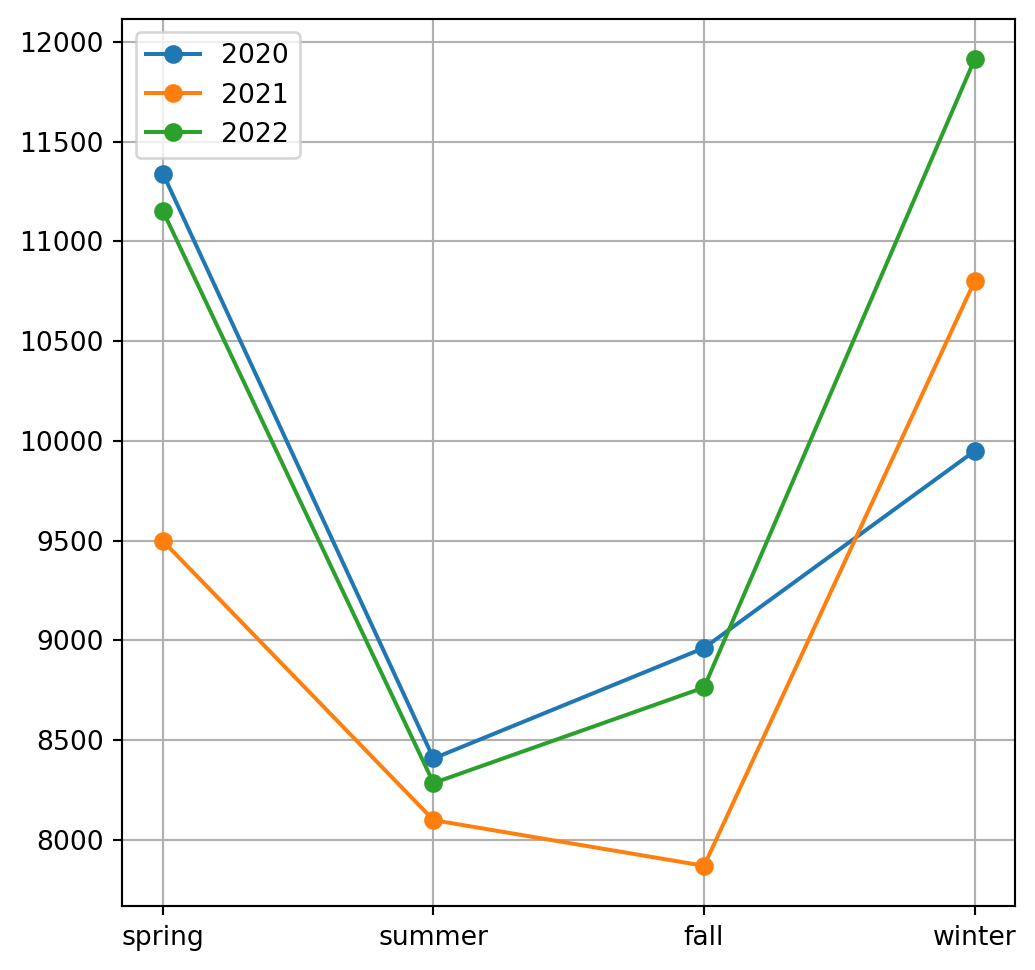
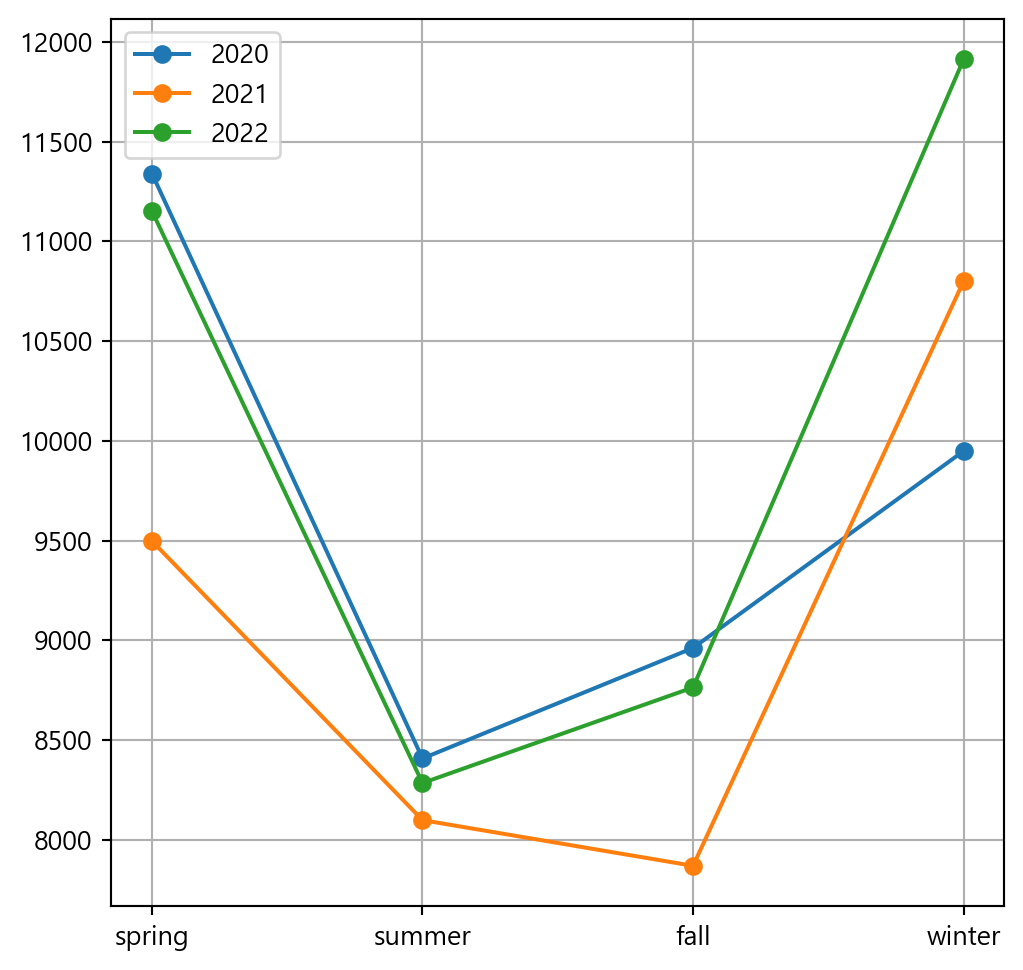
update

diff --git a/fire_presentation.html b/fire_presentation.html
@@ -110,12 +110,12 @@ pre > code.sourceCode > span > a:first-child::before { text-decoration: underlin
 <h2 class="anchored" data-anchor-id="계절별-화재발생-빈도">계절별 화재발생 빈도</h2>
 <section id="section" class="level3">
 <h3 class="anchored" data-anchor-id="section">&lt;데이터 설명&gt;</h3>
-<div id="efc306d0" class="cell" data-execution_count="1">
+<div id="f1ef26d4" class="cell" data-execution_count="1">
 <div class="sourceCode cell-code" id="cb1"><pre class="sourceCode python code-with-copy"><code class="sourceCode python"><span id="cb1-1"><a href="#cb1-1" aria-hidden="true" tabindex="-1"></a><span class="im">import</span> pandas <span class="im">as</span> pd</span>
 <span id="cb1-2"><a href="#cb1-2" aria-hidden="true" tabindex="-1"></a><span class="im">import</span> numpy <span class="im">as</span> np</span>
 <span id="cb1-3"><a href="#cb1-3" aria-hidden="true" tabindex="-1"></a>df <span class="op">=</span> pd.read_csv(<span class="st">"data/fire.csv"</span>)</span>
 <span id="cb1-4"><a href="#cb1-4" aria-hidden="true" tabindex="-1"></a>df.head()</span></code><button title="Copy to Clipboard" class="code-copy-button"><i class="bi"></i></button></pre></div>
-<div class="cell-output cell-output-display" data-execution_count="1">
+<div class="cell-output cell-output-display" data-execution_count="64">
 <div>
 
 
@@ -281,7 +281,7 @@ pre > code.sourceCode > span > a:first-child::before { text-decoration: underlin
 <ul>
 <li>연도별로 분리</li>
 </ul>
-<div id="026dc875" class="cell" data-execution_count="2">
+<div id="d02eedc6" class="cell" data-execution_count="2">
 <div class="sourceCode cell-code" id="cb2"><pre class="sourceCode python code-with-copy"><code class="sourceCode python"><span id="cb2-1"><a href="#cb2-1" aria-hidden="true" tabindex="-1"></a>data_2020 <span class="op">=</span> df[[<span class="st">'항목'</span>] <span class="op">+</span> df.<span class="bu">filter</span>(like<span class="op">=</span><span class="st">'2020'</span>).columns.tolist()]</span>
 <span id="cb2-2"><a href="#cb2-2" aria-hidden="true" tabindex="-1"></a></span>
 <span id="cb2-3"><a href="#cb2-3" aria-hidden="true" tabindex="-1"></a>data_2021 <span class="op">=</span> df[[<span class="st">'항목'</span>] <span class="op">+</span> df.<span class="bu">filter</span>(like<span class="op">=</span><span class="st">'2021'</span>).columns.tolist()]</span>
@@ -289,7 +289,7 @@ pre > code.sourceCode > span > a:first-child::before { text-decoration: underlin
 <span id="cb2-5"><a href="#cb2-5" aria-hidden="true" tabindex="-1"></a>data_2022 <span class="op">=</span> df[[<span class="st">'항목'</span>] <span class="op">+</span> df.<span class="bu">filter</span>(like<span class="op">=</span><span class="st">'2022'</span>).columns.tolist()]</span>
 <span id="cb2-6"><a href="#cb2-6" aria-hidden="true" tabindex="-1"></a></span>
 <span id="cb2-7"><a href="#cb2-7" aria-hidden="true" tabindex="-1"></a>data_2022.head()</span></code><button title="Copy to Clipboard" class="code-copy-button"><i class="bi"></i></button></pre></div>
-<div class="cell-output cell-output-display" data-execution_count="2">
+<div class="cell-output cell-output-display" data-execution_count="65">
 <div>
 
 
@@ -409,10 +409,10 @@ pre > code.sourceCode > span > a:first-child::before { text-decoration: underlin
 <ul>
 <li>2022년의 제품결함 열 삭제</li>
 </ul>
-<div id="4a789a41" class="cell" data-execution_count="3">
+<div id="bc5a75f9" class="cell" data-execution_count="3">
 <div class="sourceCode cell-code" id="cb3"><pre class="sourceCode python code-with-copy"><code class="sourceCode python"><span id="cb3-1"><a href="#cb3-1" aria-hidden="true" tabindex="-1"></a>data_2022 <span class="op">=</span> data_2022.drop(columns <span class="op">=</span> <span class="st">"2022.11"</span>)</span>
 <span id="cb3-2"><a href="#cb3-2" aria-hidden="true" tabindex="-1"></a>data_2022.head()</span></code><button title="Copy to Clipboard" class="code-copy-button"><i class="bi"></i></button></pre></div>
-<div class="cell-output cell-output-display" data-execution_count="3">
+<div class="cell-output cell-output-display" data-execution_count="66">
 <div>
 
 
@@ -526,7 +526,7 @@ pre > code.sourceCode > span > a:first-child::before { text-decoration: underlin
 <ul>
 <li>0번째 행을 column으로 지정</li>
 </ul>
-<div id="2d981ee9" class="cell" data-execution_count="4">
+<div id="d0d7a36d" class="cell" data-execution_count="4">
 <div class="sourceCode cell-code" id="cb4"><pre class="sourceCode python code-with-copy"><code class="sourceCode python"><span id="cb4-1"><a href="#cb4-1" aria-hidden="true" tabindex="-1"></a>data_2020.columns <span class="op">=</span> data_2020.iloc[<span class="dv">0</span>] </span>
 <span id="cb4-2"><a href="#cb4-2" aria-hidden="true" tabindex="-1"></a></span>
 <span id="cb4-3"><a href="#cb4-3" aria-hidden="true" tabindex="-1"></a>data_2021.columns <span class="op">=</span> data_2021.iloc[<span class="dv">0</span>] </span>
@@ -534,7 +534,7 @@ pre > code.sourceCode > span > a:first-child::before { text-decoration: underlin
 <span id="cb4-5"><a href="#cb4-5" aria-hidden="true" tabindex="-1"></a>data_2022.columns <span class="op">=</span> data_2022.iloc[<span class="dv">0</span>] </span>
 <span id="cb4-6"><a href="#cb4-6" aria-hidden="true" tabindex="-1"></a></span>
 <span id="cb4-7"><a href="#cb4-7" aria-hidden="true" tabindex="-1"></a>data_2022.head()</span></code><button title="Copy to Clipboard" class="code-copy-button"><i class="bi"></i></button></pre></div>
-<div class="cell-output cell-output-display" data-execution_count="4">
+<div class="cell-output cell-output-display" data-execution_count="67">
 <div>
 
 
@@ -648,7 +648,7 @@ pre > code.sourceCode > span > a:first-child::before { text-decoration: underlin
 <ul>
 <li>0행, 1행 삭제 후 인덱스 초기화</li>
 </ul>
-<div id="184f3568" class="cell" data-execution_count="5">
+<div id="5d8e15e8" class="cell" data-execution_count="5">
 <div class="sourceCode cell-code" id="cb5"><pre class="sourceCode python code-with-copy"><code class="sourceCode python"><span id="cb5-1"><a href="#cb5-1" aria-hidden="true" tabindex="-1"></a>data_2020 <span class="op">=</span> data_2020[<span class="dv">2</span>:]</span>
 <span id="cb5-2"><a href="#cb5-2" aria-hidden="true" tabindex="-1"></a>data_2020 <span class="op">=</span> data_2020.reset_index(drop<span class="op">=</span><span class="va">True</span>)</span>
 <span id="cb5-3"><a href="#cb5-3" aria-hidden="true" tabindex="-1"></a></span>
@@ -659,7 +659,7 @@ pre > code.sourceCode > span > a:first-child::before { text-decoration: underlin
 <span id="cb5-8"><a href="#cb5-8" aria-hidden="true" tabindex="-1"></a>data_2022 <span class="op">=</span> data_2022.reset_index(drop<span class="op">=</span><span class="va">True</span>)</span>
 <span id="cb5-9"><a href="#cb5-9" aria-hidden="true" tabindex="-1"></a></span>
 <span id="cb5-10"><a href="#cb5-10" aria-hidden="true" tabindex="-1"></a>data_2022.head()</span></code><button title="Copy to Clipboard" class="code-copy-button"><i class="bi"></i></button></pre></div>
-<div class="cell-output cell-output-display" data-execution_count="5">
+<div class="cell-output cell-output-display" data-execution_count="68">
 <div>
 
 
@@ -773,7 +773,7 @@ pre > code.sourceCode > span > a:first-child::before { text-decoration: underlin
 <ul>
 <li>데이터타입이 object로 되어 있음</li>
 </ul>
-<div id="0df72b63" class="cell" data-execution_count="6">
+<div id="4563f157" class="cell" data-execution_count="6">
 <div class="sourceCode cell-code" id="cb6"><pre class="sourceCode python code-with-copy"><code class="sourceCode python"><span id="cb6-1"><a href="#cb6-1" aria-hidden="true" tabindex="-1"></a>data_2022.info()</span></code><button title="Copy to Clipboard" class="code-copy-button"><i class="bi"></i></button></pre></div>
 <div class="cell-output cell-output-stdout">
 <pre><code>&lt;class 'pandas.core.frame.DataFrame'&gt;
@@ -802,7 +802,7 @@ memory usage: 1.3+ KB</code></pre>
 <ul>
 <li>for문을 사용해 데이터타입을 int로 변경</li>
 </ul>
-<div id="a6d308c2" class="cell" data-execution_count="7">
+<div id="64a3042d" class="cell" data-execution_count="7">
 <div class="sourceCode cell-code" id="cb8"><pre class="sourceCode python code-with-copy"><code class="sourceCode python"><span id="cb8-1"><a href="#cb8-1" aria-hidden="true" tabindex="-1"></a>columns_to_convert <span class="op">=</span> [<span class="st">'계'</span>, <span class="st">'전기적요인'</span>, <span class="st">'기계적요인'</span>,</span>
 <span id="cb8-2"><a href="#cb8-2" aria-hidden="true" tabindex="-1"></a>                <span class="st">'화학적요인'</span>, <span class="st">'가스누출'</span>, <span class="st">'교통사고'</span>, <span class="st">'부주의'</span>, <span class="st">'기타'</span>,</span>
 <span id="cb8-3"><a href="#cb8-3" aria-hidden="true" tabindex="-1"></a>                <span class="st">'자연적요인'</span>, <span class="st">'방화'</span>, <span class="st">'방화의심'</span>, <span class="st">'미상'</span>]</span>
@@ -847,7 +847,7 @@ memory usage: 1.3+ KB</code></pre>
 <p>봄: 3월, 4월, 5월<br> 여름: 6월, 7월, 8월<br> 가을: 9월, 10월, 11월<br> 겨울: 12월, 1월, 2월</p>
 </blockquote></li>
 </ul>
-<div id="cf588c32" class="cell" data-execution_count="8">
+<div id="30406ddd" class="cell" data-execution_count="8">
 <div class="sourceCode cell-code" id="cb10"><pre class="sourceCode python code-with-copy"><code class="sourceCode python"><span id="cb10-1"><a href="#cb10-1" aria-hidden="true" tabindex="-1"></a>data_2020[<span class="st">"계절"</span>] <span class="op">=</span> np.where(data_2020[<span class="st">"항목"</span>]<span class="op">\</span></span>
 <span id="cb10-2"><a href="#cb10-2" aria-hidden="true" tabindex="-1"></a>                    .isin([<span class="st">"3월"</span>, <span class="st">"4월"</span>, <span class="st">"5월"</span>]),<span class="st">"spring"</span>,</span>
 <span id="cb10-3"><a href="#cb10-3" aria-hidden="true" tabindex="-1"></a>                    np.where(data_2020[<span class="st">"항목"</span>]<span class="op">\</span></span>
@@ -870,7 +870,7 @@ memory usage: 1.3+ KB</code></pre>
 <span id="cb10-20"><a href="#cb10-20" aria-hidden="true" tabindex="-1"></a>                    .isin([<span class="st">"9월"</span>, <span class="st">"10월"</span>, <span class="st">"11월"</span>]),<span class="st">"fall"</span>,<span class="st">"winter"</span>)))</span>
 <span id="cb10-21"><a href="#cb10-21" aria-hidden="true" tabindex="-1"></a></span>
 <span id="cb10-22"><a href="#cb10-22" aria-hidden="true" tabindex="-1"></a>data_2022.head()</span></code><button title="Copy to Clipboard" class="code-copy-button"><i class="bi"></i></button></pre></div>
-<div class="cell-output cell-output-display" data-execution_count="8">
+<div class="cell-output cell-output-display" data-execution_count="71">
 <div>
 
 
@@ -990,7 +990,7 @@ memory usage: 1.3+ KB</code></pre>
 <ul>
 <li>계절별 화재 횟수 데이터프레임 생성</li>
 </ul>
-<div id="981921db" class="cell" data-execution_count="9">
+<div id="6fe57a0a" class="cell" data-execution_count="9">
 <div class="sourceCode cell-code" id="cb11"><pre class="sourceCode python code-with-copy"><code class="sourceCode python"><span id="cb11-1"><a href="#cb11-1" aria-hidden="true" tabindex="-1"></a>season_20 <span class="op">=</span> data_2020.groupby(<span class="st">'계절'</span>).agg(sum2020<span class="op">=</span>(<span class="st">'계'</span>,<span class="st">'sum'</span>))</span>
 <span id="cb11-2"><a href="#cb11-2" aria-hidden="true" tabindex="-1"></a></span>
 <span id="cb11-3"><a href="#cb11-3" aria-hidden="true" tabindex="-1"></a>season_21 <span class="op">=</span> data_2021.groupby(<span class="st">'계절'</span>).agg(sum2021<span class="op">=</span>(<span class="st">'계'</span>,<span class="st">'sum'</span>))</span>
@@ -998,7 +998,7 @@ memory usage: 1.3+ KB</code></pre>
 <span id="cb11-5"><a href="#cb11-5" aria-hidden="true" tabindex="-1"></a>season_22 <span class="op">=</span> data_2022.groupby(<span class="st">'계절'</span>).agg(sum2022<span class="op">=</span>(<span class="st">'계'</span>,<span class="st">'sum'</span>))</span>
 <span id="cb11-6"><a href="#cb11-6" aria-hidden="true" tabindex="-1"></a></span>
 <span id="cb11-7"><a href="#cb11-7" aria-hidden="true" tabindex="-1"></a>season_22</span></code><button title="Copy to Clipboard" class="code-copy-button"><i class="bi"></i></button></pre></div>
-<div class="cell-output cell-output-display" data-execution_count="9">
+<div class="cell-output cell-output-display" data-execution_count="72">
 <div>
 
 
@@ -1040,10 +1040,10 @@ memory usage: 1.3+ KB</code></pre>
 <ul>
 <li>각 데이터를 열로 병합</li>
 </ul>
-<div id="952eb34d" class="cell" data-execution_count="10">
+<div id="7b905ccf" class="cell" data-execution_count="10">
 <div class="sourceCode cell-code" id="cb12"><pre class="sourceCode python code-with-copy"><code class="sourceCode python"><span id="cb12-1"><a href="#cb12-1" aria-hidden="true" tabindex="-1"></a>season <span class="op">=</span> pd.concat([season_20,season_21,season_22], axis<span class="op">=</span><span class="dv">1</span>)</span>
 <span id="cb12-2"><a href="#cb12-2" aria-hidden="true" tabindex="-1"></a>season</span></code><button title="Copy to Clipboard" class="code-copy-button"><i class="bi"></i></button></pre></div>
-<div class="cell-output cell-output-display" data-execution_count="10">
+<div class="cell-output cell-output-display" data-execution_count="73">
 <div>
 
 
@@ -1097,10 +1097,10 @@ memory usage: 1.3+ KB</code></pre>
 <ul>
 <li>계절 순서를 ‘봄’, ‘여름’, ‘가을’, ’겨울’로 정렬</li>
 </ul>
-<div id="b7bb3c0e" class="cell" data-execution_count="11">
+<div id="592e6087" class="cell" data-execution_count="11">
 <div class="sourceCode cell-code" id="cb13"><pre class="sourceCode python code-with-copy"><code class="sourceCode python"><span id="cb13-1"><a href="#cb13-1" aria-hidden="true" tabindex="-1"></a>season <span class="op">=</span> season.loc[[<span class="st">'spring'</span>, <span class="st">'summer'</span>, <span class="st">'fall'</span>, <span class="st">'winter'</span>]]</span>
 <span id="cb13-2"><a href="#cb13-2" aria-hidden="true" tabindex="-1"></a>season</span></code><button title="Copy to Clipboard" class="code-copy-button"><i class="bi"></i></button></pre></div>
-<div class="cell-output cell-output-display" data-execution_count="11">
+<div class="cell-output cell-output-display" data-execution_count="74">
 <div>
 
 
@@ -1157,7 +1157,7 @@ memory usage: 1.3+ KB</code></pre>
 <ul>
 <li>계절별 화재발생 선 그래프 생성</li>
 </ul>
-<div id="52248387" class="cell" data-execution_count="12">
+<div id="a5883644" class="cell" data-execution_count="12">
 <div class="sourceCode cell-code" id="cb14"><pre class="sourceCode python code-with-copy"><code class="sourceCode python"><span id="cb14-1"><a href="#cb14-1" aria-hidden="true" tabindex="-1"></a><span class="im">import</span> matplotlib.pyplot <span class="im">as</span> plt</span>
 <span id="cb14-2"><a href="#cb14-2" aria-hidden="true" tabindex="-1"></a></span>
 <span id="cb14-3"><a href="#cb14-3" aria-hidden="true" tabindex="-1"></a>plt.figure(figsize<span class="op">=</span>(<span class="dv">6</span>, <span class="dv">6</span>))</span>
@@ -1172,7 +1172,7 @@ memory usage: 1.3+ KB</code></pre>
 <div class="cell-output cell-output-display">
 <div>
 <figure class="figure">
-<p><img src="fire_presentation_files/figure-html/cell-13-output-1.png" width="518" height="485" class="figure-img"></p>
+<p><img src="fire_presentation_files/figure-html/cell-13-output-1.png" width="512" height="485" class="figure-img"></p>
 </figure>
 </div>
 </div>
@@ -1183,10 +1183,11 @@ memory usage: 1.3+ KB</code></pre>
 <p><br></p>
 </section>
 <section id="section-3" class="level3">
-<h3 class="anchored" data-anchor-id="section-3">&lt;결과 설명&gt;</h3>
+<h3 class="anchored" data-anchor-id="section-3">&lt;결과 &gt;</h3>
 <blockquote class="blockquote">
 <p>2020년, 2021년, 2022년 모두 여름과 가을에 비해<br><strong>봄</strong>과 <strong>겨울</strong>에 화재 발생 빈도가 높게 나타남</p>
 </blockquote>
+<p><br></p>
 </section>
 </section>
 <section id="요인별-화재발생-빈도" class="level2">
@@ -1196,10 +1197,10 @@ memory usage: 1.3+ KB</code></pre>
 <ul>
 <li>다시 한번 데이터 확인해보기</li>
 </ul>
-<pre><code></code></pre>
-<div id="a3e217a2" class="cell" data-execution_count="13">
-<div class="sourceCode cell-code" id="cb17"><pre class="sourceCode python code-with-copy"><code class="sourceCode python"><span id="cb17-1"><a href="#cb17-1" aria-hidden="true" tabindex="-1"></a>data_2022.head</span></code><button title="Copy to Clipboard" class="code-copy-button"><i class="bi"></i></button></pre></div>
-<div class="cell-output cell-output-display" data-execution_count="13">
+<p><br></p>
+<div id="93c01ecc" class="cell" data-execution_count="13">
+<div class="sourceCode cell-code" id="cb16"><pre class="sourceCode python code-with-copy"><code class="sourceCode python"><span id="cb16-1"><a href="#cb16-1" aria-hidden="true" tabindex="-1"></a>data_2022.head</span></code><button title="Copy to Clipboard" class="code-copy-button"><i class="bi"></i></button></pre></div>
+<div class="cell-output cell-output-display" data-execution_count="76">
 <pre><code>&lt;bound method NDFrame.head of 0    항목     계  전기적요인  기계적요인  화학적요인  가스누출  교통사고   부주의  기타  자연적요인  방화  방화의심  \
 0    1월  4098    932    373     52    20    38  2173  48      4  37    31   
 1    2월  4121    778    328     43    12    30  2396  52     11  34    37   
@@ -1229,13 +1230,14 @@ memory usage: 1.3+ KB</code></pre>
 11  372  winter  &gt;</code></pre>
 </div>
 </div>
+<p><br></p>
 <ul>
 <li>데이터 합치기 (‘concat’ 함수이용)</li>
 </ul>
-<div id="62618e7b" class="cell" data-execution_count="14">
-<div class="sourceCode cell-code" id="cb19"><pre class="sourceCode python code-with-copy"><code class="sourceCode python"><span id="cb19-1"><a href="#cb19-1" aria-hidden="true" tabindex="-1"></a>data_all <span class="op">=</span> pd.concat([data_2020, data_2021,data_2022])</span>
-<span id="cb19-2"><a href="#cb19-2" aria-hidden="true" tabindex="-1"></a>data_all</span></code><button title="Copy to Clipboard" class="code-copy-button"><i class="bi"></i></button></pre></div>
-<div class="cell-output cell-output-display" data-execution_count="14">
+<div id="734a731a" class="cell" data-execution_count="14">
+<div class="sourceCode cell-code" id="cb18"><pre class="sourceCode python code-with-copy"><code class="sourceCode python"><span id="cb18-1"><a href="#cb18-1" aria-hidden="true" tabindex="-1"></a>data_all <span class="op">=</span> pd.concat([data_2020, data_2021,data_2022])</span>
+<span id="cb18-2"><a href="#cb18-2" aria-hidden="true" tabindex="-1"></a>data_all</span></code><button title="Copy to Clipboard" class="code-copy-button"><i class="bi"></i></button></pre></div>
+<div class="cell-output cell-output-display" data-execution_count="77">
 <div>
 
 
@@ -1878,13 +1880,14 @@ memory usage: 1.3+ KB</code></pre>
 </div>
 </div>
 </div>
+<p><br></p>
 <ul>
 <li>필요없는 열 제거</li>
 </ul>
-<div id="41a31c00" class="cell" data-execution_count="15">
-<div class="sourceCode cell-code" id="cb20"><pre class="sourceCode python code-with-copy"><code class="sourceCode python"><span id="cb20-1"><a href="#cb20-1" aria-hidden="true" tabindex="-1"></a>data_all <span class="op">=</span> data_all.drop(columns<span class="op">=</span>[<span class="st">'계'</span>])</span>
-<span id="cb20-2"><a href="#cb20-2" aria-hidden="true" tabindex="-1"></a>data_all.head(<span class="dv">3</span>)</span></code><button title="Copy to Clipboard" class="code-copy-button"><i class="bi"></i></button></pre></div>
-<div class="cell-output cell-output-display" data-execution_count="15">
+<div id="147c4dde" class="cell" data-execution_count="15">
+<div class="sourceCode cell-code" id="cb19"><pre class="sourceCode python code-with-copy"><code class="sourceCode python"><span id="cb19-1"><a href="#cb19-1" aria-hidden="true" tabindex="-1"></a>data_all <span class="op">=</span> data_all.drop(columns<span class="op">=</span>[<span class="st">'계'</span>])</span>
+<span id="cb19-2"><a href="#cb19-2" aria-hidden="true" tabindex="-1"></a>data_all.head(<span class="dv">3</span>)</span></code><button title="Copy to Clipboard" class="code-copy-button"><i class="bi"></i></button></pre></div>
+<div class="cell-output cell-output-display" data-execution_count="78">
 <div>
 
 
@@ -1962,14 +1965,15 @@ memory usage: 1.3+ KB</code></pre>
 </div>
 </div>
 </div>
+<p><br></p>
 <ul>
 <li>요인별 평균 내기</li>
 </ul>
-<div id="c9b2c190" class="cell" data-execution_count="16">
-<div class="sourceCode cell-code" id="cb21"><pre class="sourceCode python code-with-copy"><code class="sourceCode python"><span id="cb21-1"><a href="#cb21-1" aria-hidden="true" tabindex="-1"></a><span class="co"># 행과 열 바꿔줌</span></span>
-<span id="cb21-2"><a href="#cb21-2" aria-hidden="true" tabindex="-1"></a>data_all <span class="op">=</span> data_all.transpose()</span>
-<span id="cb21-3"><a href="#cb21-3" aria-hidden="true" tabindex="-1"></a>data_all.head()</span></code><button title="Copy to Clipboard" class="code-copy-button"><i class="bi"></i></button></pre></div>
-<div class="cell-output cell-output-display" data-execution_count="16">
+<div id="d577ef6f" class="cell" data-execution_count="16">
+<div class="sourceCode cell-code" id="cb20"><pre class="sourceCode python code-with-copy"><code class="sourceCode python"><span id="cb20-1"><a href="#cb20-1" aria-hidden="true" tabindex="-1"></a><span class="co"># 행과 열 바꿔줌</span></span>
+<span id="cb20-2"><a href="#cb20-2" aria-hidden="true" tabindex="-1"></a>data_all <span class="op">=</span> data_all.transpose()</span>
+<span id="cb20-3"><a href="#cb20-3" aria-hidden="true" tabindex="-1"></a>data_all.head()</span></code><button title="Copy to Clipboard" class="code-copy-button"><i class="bi"></i></button></pre></div>
+<div class="cell-output cell-output-display" data-execution_count="79">
 <div>
 
 
@@ -2152,12 +2156,12 @@ memory usage: 1.3+ KB</code></pre>
 </div>
 </div>
 </div>
-<div id="78b250fc" class="cell" data-execution_count="17">
-<div class="sourceCode cell-code" id="cb22"><pre class="sourceCode python code-with-copy"><code class="sourceCode python"><span id="cb22-1"><a href="#cb22-1" aria-hidden="true" tabindex="-1"></a><span class="co"># 필요없는 열 제거</span></span>
-<span id="cb22-2"><a href="#cb22-2" aria-hidden="true" tabindex="-1"></a>data_all <span class="op">=</span> data_all.drop(<span class="st">"항목"</span>, axis<span class="op">=</span><span class="dv">0</span>)</span>
-<span id="cb22-3"><a href="#cb22-3" aria-hidden="true" tabindex="-1"></a>data_all <span class="op">=</span> data_all.drop(<span class="st">"계절"</span>, axis<span class="op">=</span><span class="dv">0</span>)</span>
-<span id="cb22-4"><a href="#cb22-4" aria-hidden="true" tabindex="-1"></a>data_all.head()</span></code><button title="Copy to Clipboard" class="code-copy-button"><i class="bi"></i></button></pre></div>
-<div class="cell-output cell-output-display" data-execution_count="17">
+<div id="91360fba" class="cell" data-execution_count="17">
+<div class="sourceCode cell-code" id="cb21"><pre class="sourceCode python code-with-copy"><code class="sourceCode python"><span id="cb21-1"><a href="#cb21-1" aria-hidden="true" tabindex="-1"></a><span class="co"># 필요없는 열 제거</span></span>
+<span id="cb21-2"><a href="#cb21-2" aria-hidden="true" tabindex="-1"></a>data_all <span class="op">=</span> data_all.drop(<span class="st">"항목"</span>, axis<span class="op">=</span><span class="dv">0</span>)</span>
+<span id="cb21-3"><a href="#cb21-3" aria-hidden="true" tabindex="-1"></a>data_all <span class="op">=</span> data_all.drop(<span class="st">"계절"</span>, axis<span class="op">=</span><span class="dv">0</span>)</span>
+<span id="cb21-4"><a href="#cb21-4" aria-hidden="true" tabindex="-1"></a>data_all.head()</span></code><button title="Copy to Clipboard" class="code-copy-button"><i class="bi"></i></button></pre></div>
+<div class="cell-output cell-output-display" data-execution_count="80">
 <div>
 
 
@@ -2340,10 +2344,10 @@ memory usage: 1.3+ KB</code></pre>
 </div>
 </div>
 </div>
-<div id="0482daf5" class="cell" data-execution_count="18">
-<div class="sourceCode cell-code" id="cb23"><pre class="sourceCode python code-with-copy"><code class="sourceCode python"><span id="cb23-1"><a href="#cb23-1" aria-hidden="true" tabindex="-1"></a><span class="co"># 데이터타입 변경</span></span>
-<span id="cb23-2"><a href="#cb23-2" aria-hidden="true" tabindex="-1"></a>data_all.info()</span>
-<span id="cb23-3"><a href="#cb23-3" aria-hidden="true" tabindex="-1"></a>data_all<span class="op">=</span>data_all.astype(<span class="bu">int</span>)</span></code><button title="Copy to Clipboard" class="code-copy-button"><i class="bi"></i></button></pre></div>
+<div id="89d9047d" class="cell" data-execution_count="18">
+<div class="sourceCode cell-code" id="cb22"><pre class="sourceCode python code-with-copy"><code class="sourceCode python"><span id="cb22-1"><a href="#cb22-1" aria-hidden="true" tabindex="-1"></a><span class="co"># 데이터타입 변경</span></span>
+<span id="cb22-2"><a href="#cb22-2" aria-hidden="true" tabindex="-1"></a>data_all.info()</span>
+<span id="cb22-3"><a href="#cb22-3" aria-hidden="true" tabindex="-1"></a>data_all<span class="op">=</span>data_all.astype(<span class="bu">int</span>)</span></code><button title="Copy to Clipboard" class="code-copy-button"><i class="bi"></i></button></pre></div>
 <div class="cell-output cell-output-stdout">
 <pre><code>&lt;class 'pandas.core.frame.DataFrame'&gt;
 Index: 11 entries, 전기적요인 to 미상
@@ -2390,13 +2394,14 @@ dtypes: object(36)
 memory usage: 3.2+ KB</code></pre>
 </div>
 </div>
+<p><br></p>
 <ul>
 <li>1년동안 일어나는 요인별 화재건수를 ’total’열 생성(3년 평균)</li>
 </ul>
-<div id="259a9d3f" class="cell" data-execution_count="19">
-<div class="sourceCode cell-code" id="cb25"><pre class="sourceCode python code-with-copy"><code class="sourceCode python"><span id="cb25-1"><a href="#cb25-1" aria-hidden="true" tabindex="-1"></a>data_all[<span class="st">"total"</span>] <span class="op">=</span> data_all.<span class="bu">sum</span>(axis<span class="op">=</span><span class="dv">1</span>)<span class="op">/</span><span class="dv">3</span></span>
-<span id="cb25-2"><a href="#cb25-2" aria-hidden="true" tabindex="-1"></a>data_all.head()</span></code><button title="Copy to Clipboard" class="code-copy-button"><i class="bi"></i></button></pre></div>
-<div class="cell-output cell-output-display" data-execution_count="19">
+<div id="80350c6d" class="cell" data-execution_count="19">
+<div class="sourceCode cell-code" id="cb24"><pre class="sourceCode python code-with-copy"><code class="sourceCode python"><span id="cb24-1"><a href="#cb24-1" aria-hidden="true" tabindex="-1"></a>data_all[<span class="st">"total"</span>] <span class="op">=</span> data_all.<span class="bu">sum</span>(axis<span class="op">=</span><span class="dv">1</span>)<span class="op">/</span><span class="dv">3</span></span>
+<span id="cb24-2"><a href="#cb24-2" aria-hidden="true" tabindex="-1"></a>data_all.head()</span></code><button title="Copy to Clipboard" class="code-copy-button"><i class="bi"></i></button></pre></div>
+<div class="cell-output cell-output-display" data-execution_count="82">
 <div>
 
 
@@ -2579,14 +2584,14 @@ memory usage: 3.2+ KB</code></pre>
 </div>
 </div>
 </div>
-<div id="cfd63da7" class="cell" data-execution_count="20">
-<div class="sourceCode cell-code" id="cb26"><pre class="sourceCode python code-with-copy"><code class="sourceCode python"><span id="cb26-1"><a href="#cb26-1" aria-hidden="true" tabindex="-1"></a><span class="co">## 한글</span></span>
-<span id="cb26-2"><a href="#cb26-2" aria-hidden="true" tabindex="-1"></a><span class="im">from</span> matplotlib <span class="im">import</span> font_manager, rc</span>
-<span id="cb26-3"><a href="#cb26-3" aria-hidden="true" tabindex="-1"></a></span>
-<span id="cb26-4"><a href="#cb26-4" aria-hidden="true" tabindex="-1"></a><span class="co"># 한글 폰트 설정</span></span>
-<span id="cb26-5"><a href="#cb26-5" aria-hidden="true" tabindex="-1"></a>font_path <span class="op">=</span> <span class="st">"C:/Windows/Fonts/malgun.ttf"</span>  <span class="co"># 예시: 윈도우 시스템에 있는 맑은 고딕 폰트 경로</span></span>
-<span id="cb26-6"><a href="#cb26-6" aria-hidden="true" tabindex="-1"></a>font_name <span class="op">=</span> font_manager.FontProperties(fname<span class="op">=</span>font_path).get_name()</span>
-<span id="cb26-7"><a href="#cb26-7" aria-hidden="true" tabindex="-1"></a>rc(<span class="st">'font'</span>, family<span class="op">=</span>font_name)</span></code><button title="Copy to Clipboard" class="code-copy-button"><i class="bi"></i></button></pre></div>
+<div id="d082a46b" class="cell" data-execution_count="20">
+<div class="sourceCode cell-code" id="cb25"><pre class="sourceCode python code-with-copy"><code class="sourceCode python"><span id="cb25-1"><a href="#cb25-1" aria-hidden="true" tabindex="-1"></a><span class="co">## 한글</span></span>
+<span id="cb25-2"><a href="#cb25-2" aria-hidden="true" tabindex="-1"></a><span class="im">from</span> matplotlib <span class="im">import</span> font_manager, rc</span>
+<span id="cb25-3"><a href="#cb25-3" aria-hidden="true" tabindex="-1"></a></span>
+<span id="cb25-4"><a href="#cb25-4" aria-hidden="true" tabindex="-1"></a><span class="co"># 한글 폰트 설정</span></span>
+<span id="cb25-5"><a href="#cb25-5" aria-hidden="true" tabindex="-1"></a>font_path <span class="op">=</span> <span class="st">"C:/Windows/Fonts/malgun.ttf"</span>  <span class="co"># 예시: 윈도우 시스템에 있는 맑은 고딕 폰트 경로</span></span>
+<span id="cb25-6"><a href="#cb25-6" aria-hidden="true" tabindex="-1"></a>font_name <span class="op">=</span> font_manager.FontProperties(fname<span class="op">=</span>font_path).get_name()</span>
+<span id="cb25-7"><a href="#cb25-7" aria-hidden="true" tabindex="-1"></a>rc(<span class="st">'font'</span>, family<span class="op">=</span>font_name)</span></code><button title="Copy to Clipboard" class="code-copy-button"><i class="bi"></i></button></pre></div>
 </div>
 </section>
 <section id="section-5" class="level3">
@@ -2594,11 +2599,11 @@ memory usage: 3.2+ KB</code></pre>
 <ul>
 <li>요인별 화재건수</li>
 </ul>
-<div id="73ca3485" class="cell" data-execution_count="21">
-<div class="sourceCode cell-code" id="cb27"><pre class="sourceCode python code-with-copy"><code class="sourceCode python"><span id="cb27-1"><a href="#cb27-1" aria-hidden="true" tabindex="-1"></a>data_all[<span class="st">"total"</span>].plot.bar(rot<span class="op">=</span><span class="dv">0</span>)</span>
-<span id="cb27-2"><a href="#cb27-2" aria-hidden="true" tabindex="-1"></a>plt.xticks(fontsize<span class="op">=</span><span class="dv">7</span>, rotation<span class="op">=</span><span class="dv">45</span>)</span>
-<span id="cb27-3"><a href="#cb27-3" aria-hidden="true" tabindex="-1"></a>plt.show()</span>
-<span id="cb27-4"><a href="#cb27-4" aria-hidden="true" tabindex="-1"></a>plt.clf()</span></code><button title="Copy to Clipboard" class="code-copy-button"><i class="bi"></i></button></pre></div>
+<div id="79f3c3ea" class="cell" data-execution_count="21">
+<div class="sourceCode cell-code" id="cb26"><pre class="sourceCode python code-with-copy"><code class="sourceCode python"><span id="cb26-1"><a href="#cb26-1" aria-hidden="true" tabindex="-1"></a>data_all[<span class="st">"total"</span>].plot.bar(rot<span class="op">=</span><span class="dv">0</span>)</span>
+<span id="cb26-2"><a href="#cb26-2" aria-hidden="true" tabindex="-1"></a>plt.xticks(fontsize<span class="op">=</span><span class="dv">7</span>, rotation<span class="op">=</span><span class="dv">45</span>)</span>
+<span id="cb26-3"><a href="#cb26-3" aria-hidden="true" tabindex="-1"></a>plt.show()</span>
+<span id="cb26-4"><a href="#cb26-4" aria-hidden="true" tabindex="-1"></a>plt.clf()</span></code><button title="Copy to Clipboard" class="code-copy-button"><i class="bi"></i></button></pre></div>
 <div class="cell-output cell-output-display">
 <div>
 <figure class="figure">
@@ -2610,10 +2615,14 @@ memory usage: 3.2+ KB</code></pre>
 <pre><code>&lt;Figure size 672x480 with 0 Axes&gt;</code></pre>
 </div>
 </div>
+<p><br></p>
 </section>
+<section id="section-6" class="level3">
+<h3 class="anchored" data-anchor-id="section-6">&lt;결과&gt;</h3>
+<blockquote class="blockquote">
+<p>3년간 화재발생 요인의 평균을 분석했을 때 <strong>부주의</strong>가 가장 높게 나타남</p>
+</blockquote>
 </section>
-<section id="요인별-인명피해" class="level2">
-<h2 class="anchored" data-anchor-id="요인별-인명피해">요인별 인명피해</h2>
 </section>
 
 </main>
